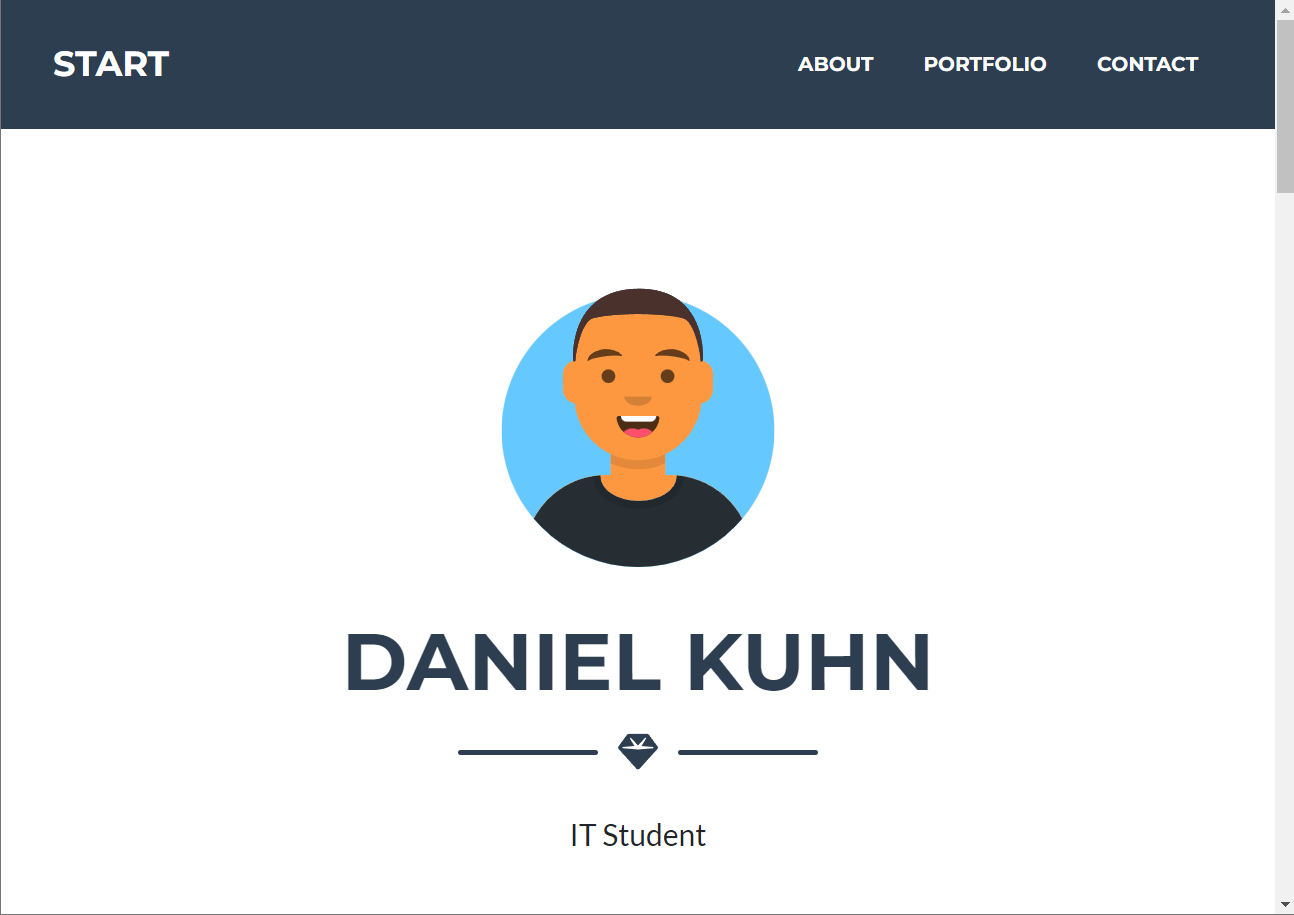
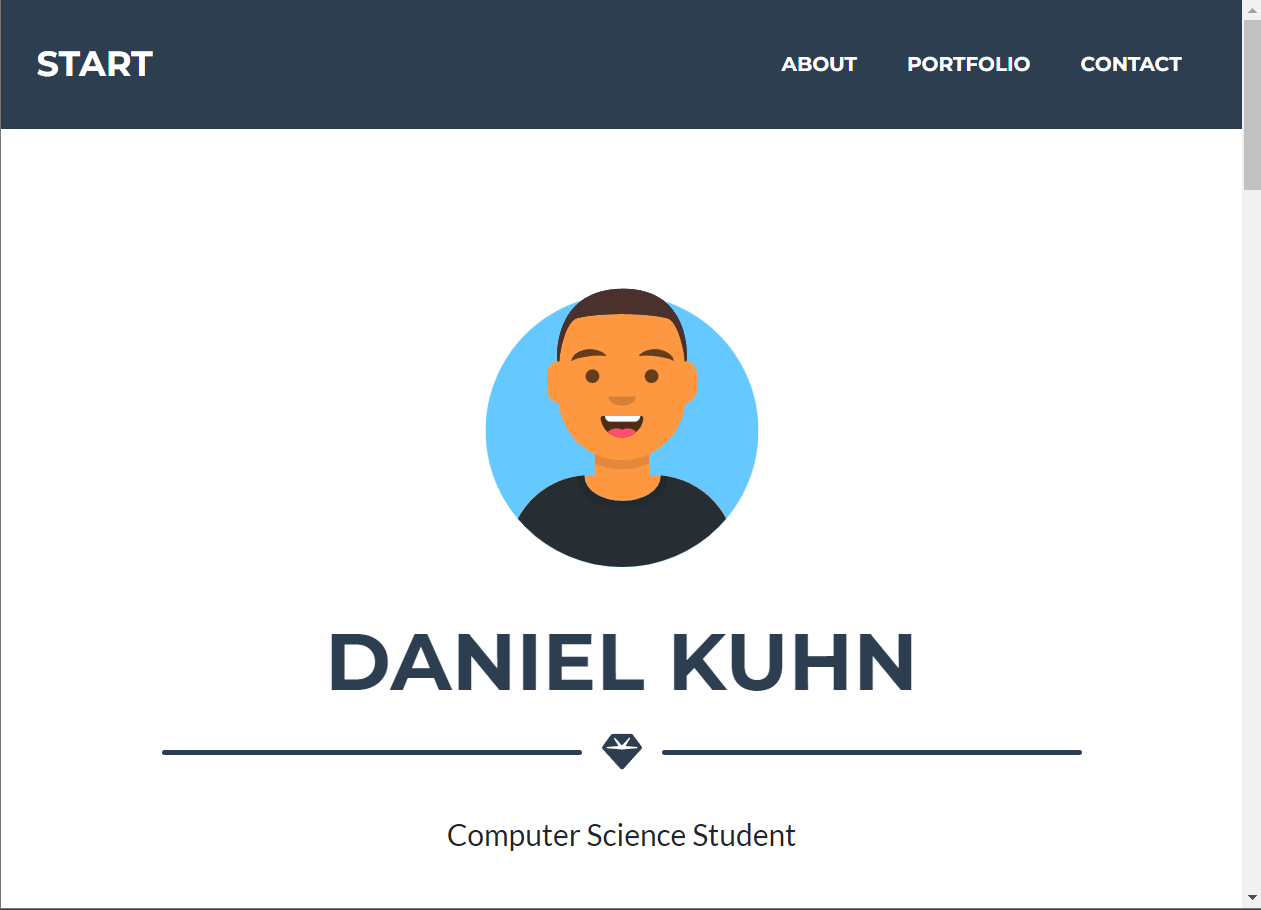
edit page text and line length

diff --git a/index.html b/index.html
@@ -5,7 +5,7 @@
         <meta name="viewport" content="width=device-width, initial-scale=1, shrink-to-fit=no" />
         <meta name="description" content="" />
         <meta name="author" content="" />
-        <title>Daniel Kuhn | IT Student</title>
+        <title>Daniel Kuhn</title>
         <!-- Favicon-->
         <link rel="icon" type="image/x-icon" href="assets/img/avataaars.svg" />
         <!-- Font Awesome icons (free version)-->
@@ -48,7 +48,7 @@
                     <div class="divider-custom-line"></div>
                 </div>
                 <!-- Masthead Subheading-->
-                <p class="masthead-subheading font-weight-light mb-0">IT Student</p>
+                <p class="masthead-subheading font-weight-light mb-0">Computer Science Student</p>
             </div>
         </header>
         <!-- About Section-->
@@ -64,7 +64,7 @@
                 </div>
                 <!-- About Section Content-->
                 <p class="col-lg-8 text-center">
-                    <p class="lead">Hello, I'm a passionate IT student from Germany with a strong interest in coding and cutting edge technology.
+                    <p class="lead">Hello, I'm a passionate computer science student from Germany with a strong interest in coding and cutting edge technology.
                         Currently honing my skills and knowledge in various programming languages, I have taken the initiative to build
                         this website as a demonstration of my capabilities.</p>
                     <p class="lead">While I may not have an extensive track record of contributions to projects yet, I am enthusiastic
@@ -151,7 +151,7 @@
                 <!-- Contact Section Heading-->
                 <h2 class="page-section-heading text-center text-uppercase text-secondary mb-0">Contact Me</h2>
                 <!-- Icon Divider-->
-                <div class="divider-custom">
+                <div class="divider-custom col-lg-8 col-xl-7">
                     <div class="divider-custom-line"></div>
                     <div class="divider-custom-icon"><i class="fas fa-gem"></i></div>
                     <div class="divider-custom-line"></div>

diff --git a/css/styles.css b/css/styles.css
@@ -10853,7 +10853,7 @@ html {
 }
 .divider-custom .divider-custom-line {
   width: 100%;
-  max-width: 7rem;
+  max-width: 21rem;
   height: 0.25rem;
   background-color: #2c3e50;
   border-radius: 1rem;
